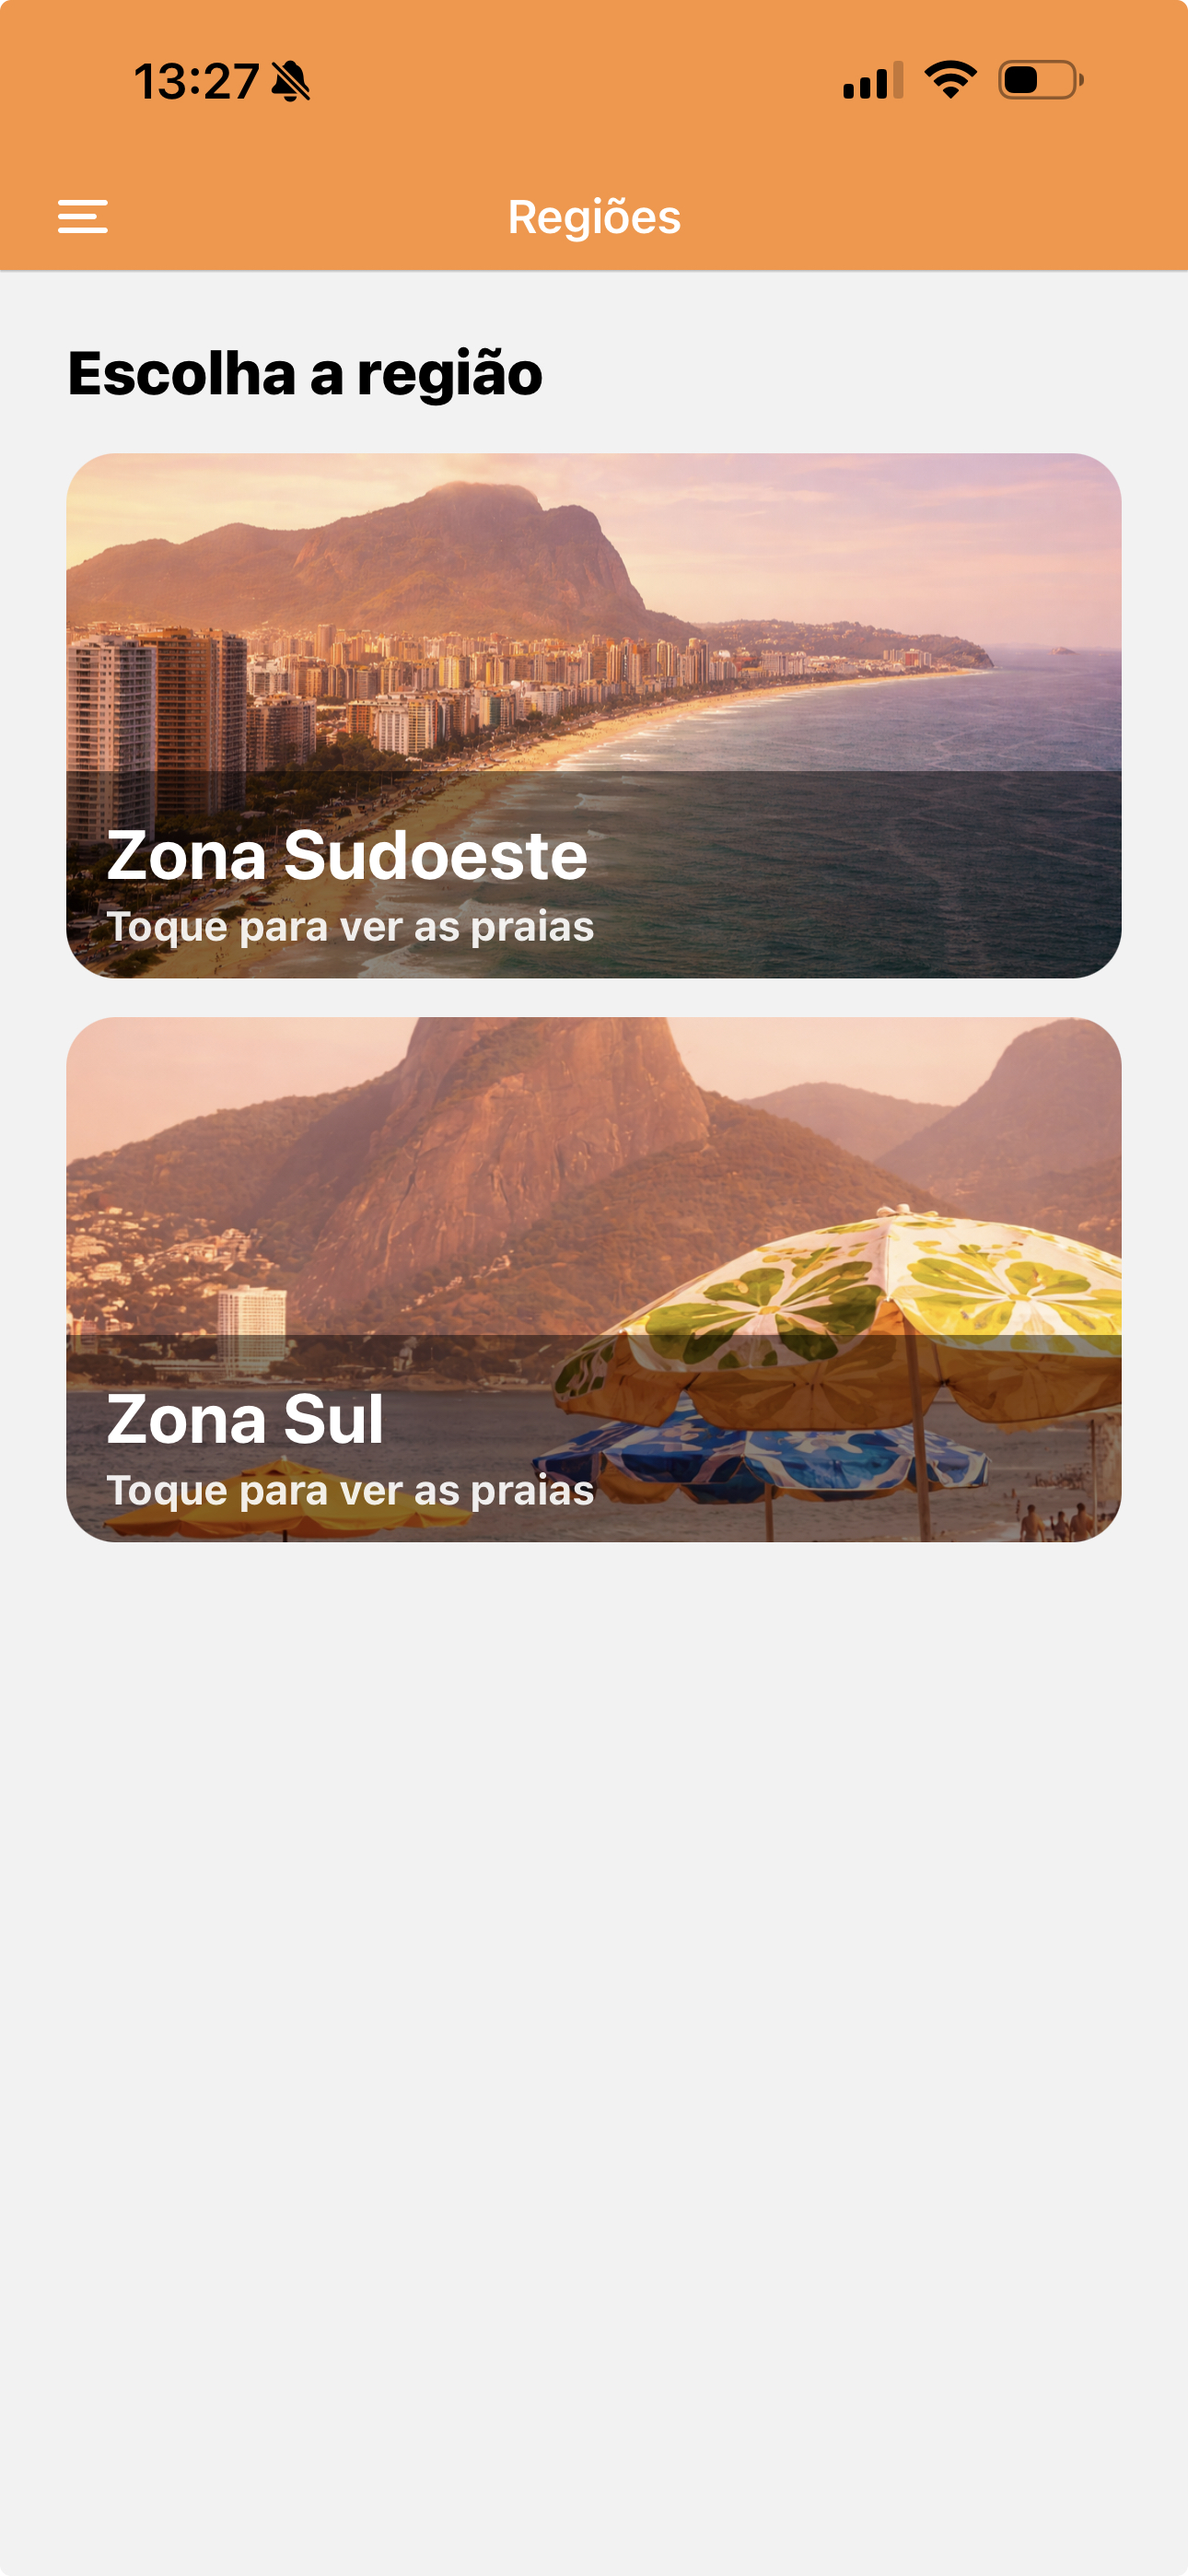
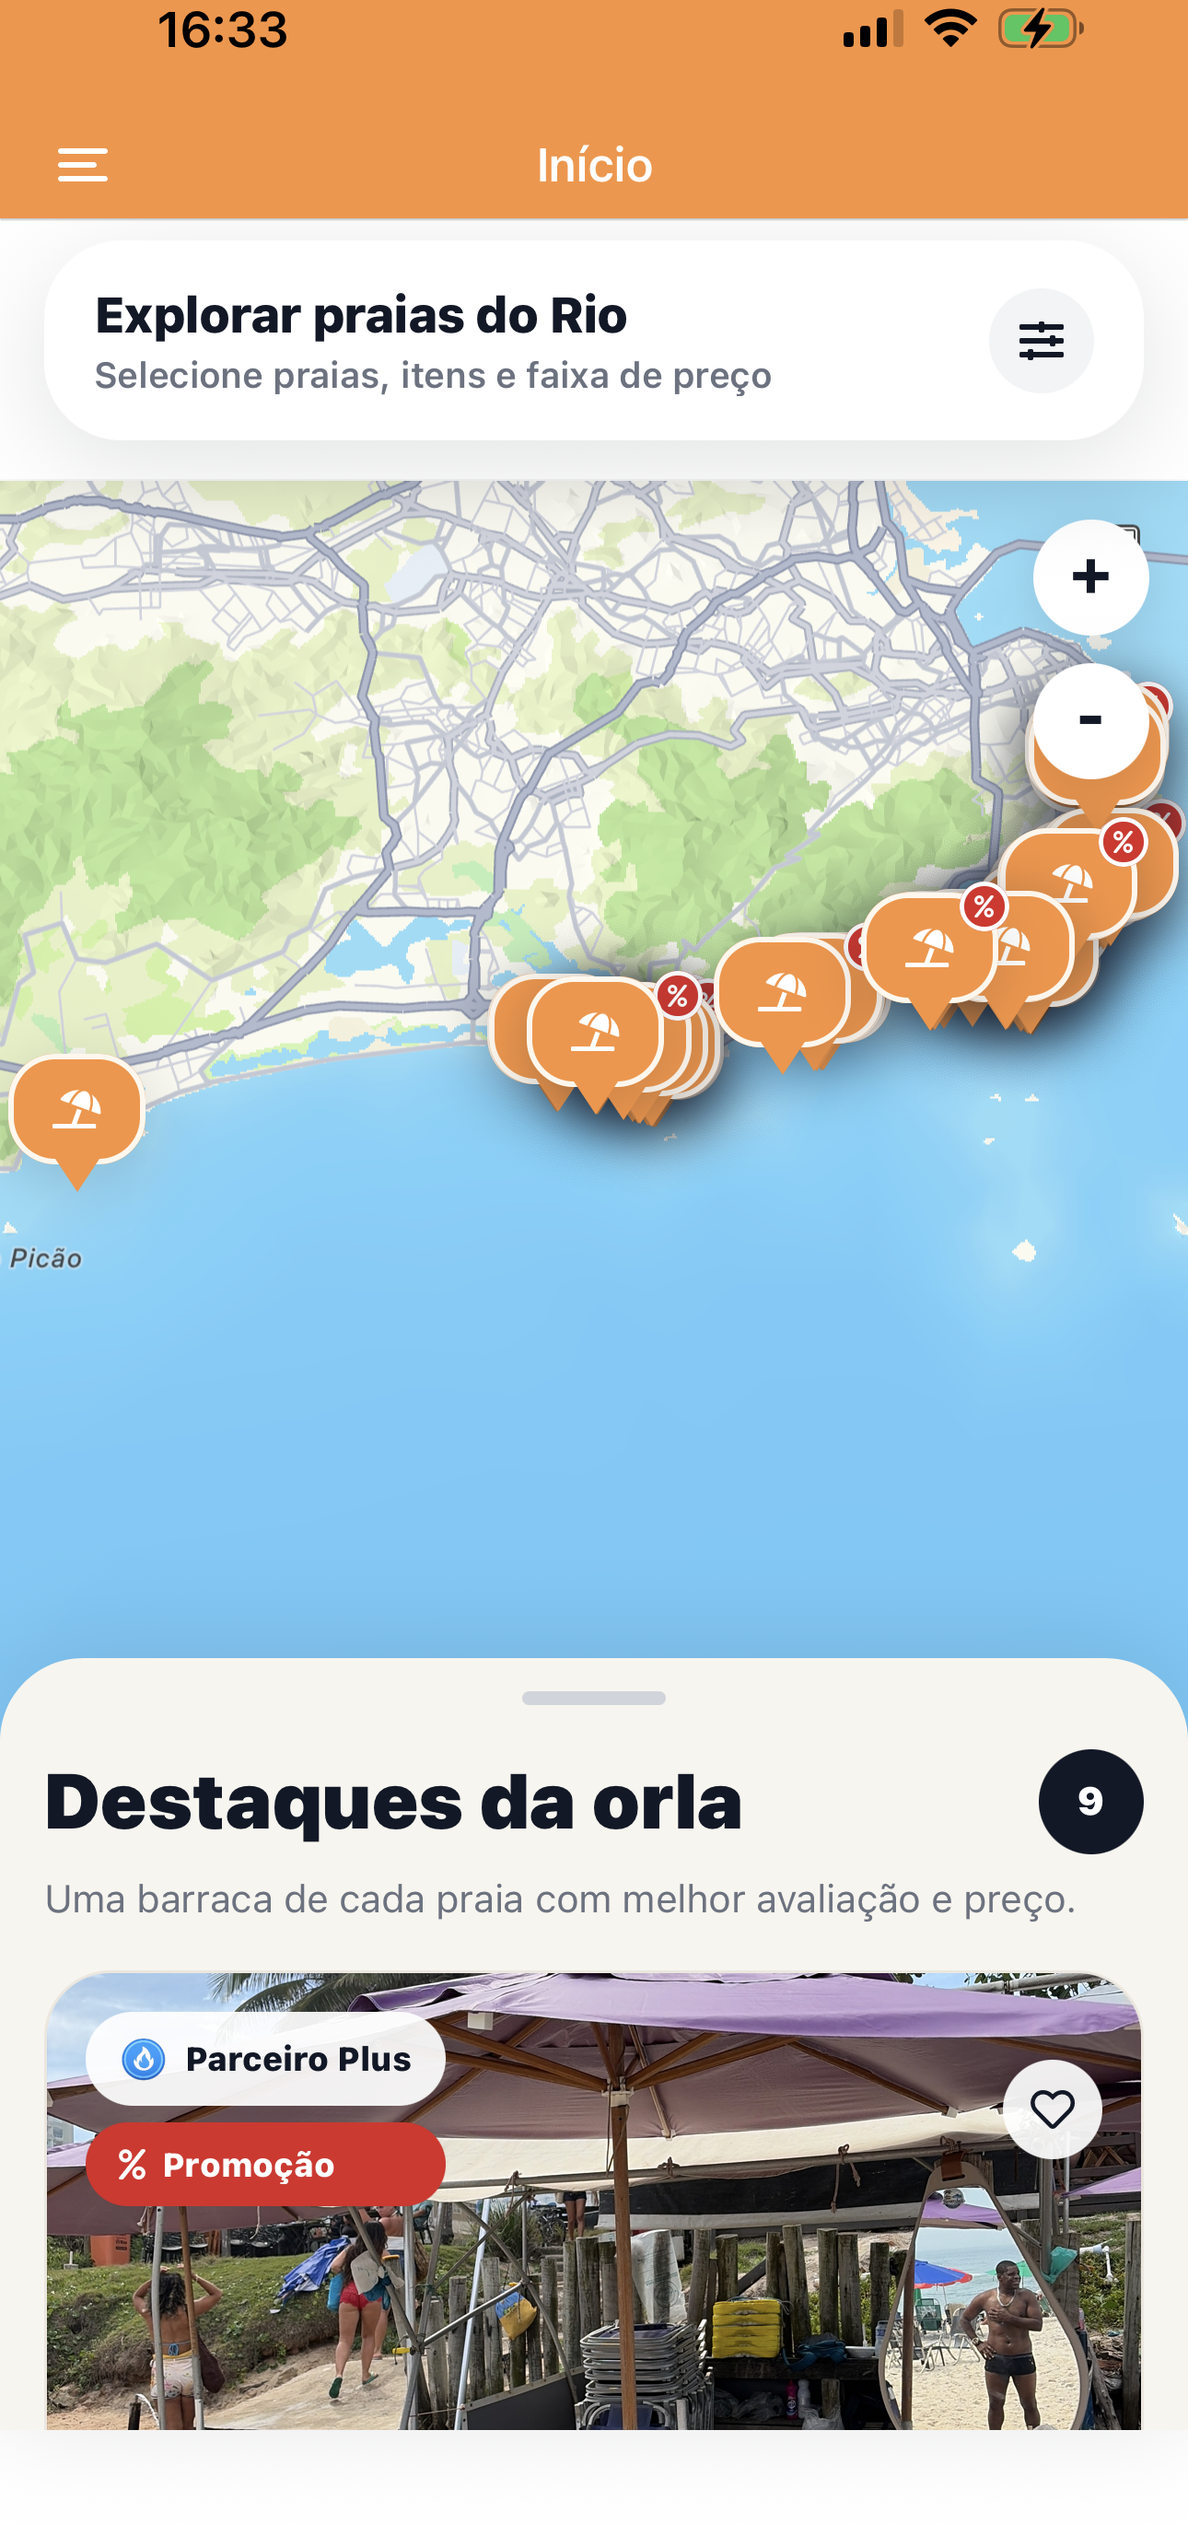
delete imagens not used, updated terms and replace image home

diff --git a/privacy.html b/privacy.html
@@ -56,7 +56,7 @@ A Orla+ respeita sua privacidade e está comprometida com a proteção dos dados
 Esta Política explica como coletamos, utilizamos e protegemos suas informações.</div>
           <h3>1. Quem Somos</h3>
           <div class="legal-block">Orla+ é uma plataforma digital que conecta usuários a estabelecimentos (lojistas) para realização de reservas de serviços de praia.
-📧 Contato: contato@orlamais.com
+📧 Contato: contato@orlamais.com.br
 🌐 https://orlamais.com.br</div>
           <h3>2. Dados Coletados</h3>
           <h3>2.1 Dados fornecidos pelo usuário</h3>
@@ -96,7 +96,7 @@ Correção de dados incompletos ou incorretos
 Exclusão da conta
 Revogação de consentimento
 Para exercer seus direitos:
-📧 contato@orlamais.com</div>
+📧 contato@orlamais.com.br</div>
           <h3>8. Retenção de Dados</h3>
           <div class="legal-block">Os dados serão mantidos enquanto sua conta estiver ativa ou pelo período necessário para cumprir obrigações legais e regulatórias.</div>
           <h3>9. Cookies e Tecnologias</h3>
@@ -117,7 +117,7 @@ Retenção de dados:
 Alguns dados podem ser mantidos temporariamente para cumprimento de obrigações legais.</div>
           <h3>12. Contato</h3>
           <div class="legal-block">Em caso de dúvidas:
-📧 contato@orlamais.com
+📧 contato@orlamais.com.br
 🌐 https://orlamais.com.br</div>
         </div>
       </div>

diff --git a/terms.html b/terms.html
@@ -114,7 +114,7 @@ Eventos climáticos ou força maior</div>
           <div class="legal-block">Estes Termos podem ser alterados a qualquer momento. O uso contínuo da plataforma após alterações constitui aceitação dos novos termos.</div>
           <h3>12. Contato</h3>
           <div class="legal-block">Em caso de dúvidas:
-📧 contato@orlamais.com
+📧 contato@orlamais.com.br
 🌐 https://orlamais.com.br</div>
         </div>
       </div>

diff --git a/index.html b/index.html
@@ -33,7 +33,7 @@
           "name": "Orla+",
           "url": "https://www.orlamais.com.br/",
           "logo": "https://www.orlamais.com.br/assets/logo-orlamais.svg",
-          "email": "contato@orlamais.com"
+          "email": "contato@orlamais.com.br"
         },
         {
           "@type": "WebSite",
